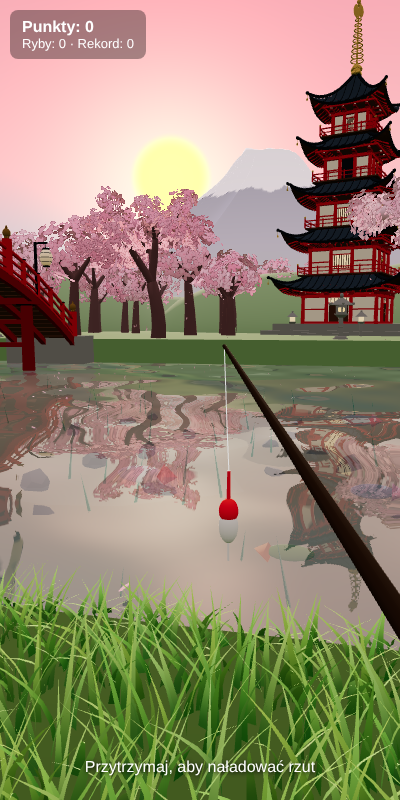
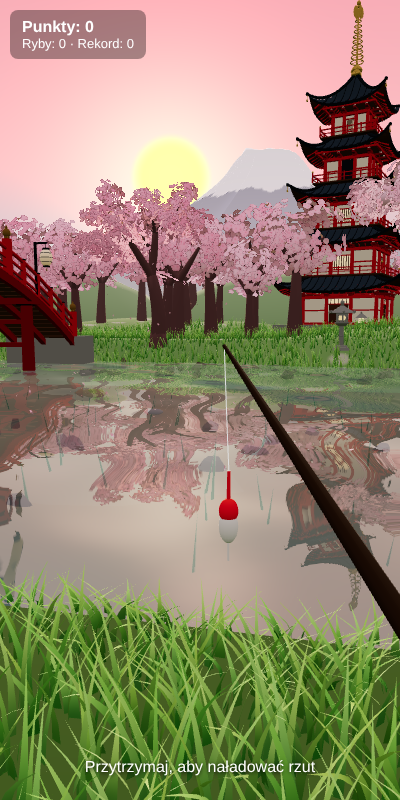
Sakura River 3D: rolling far-bank terrain with wavy shoreline, meadow noise shader, shader grass and stones
Claude-Session: https://claude.ai/code/session_0135N7RBne1EWupuqrvu7N74

diff --git a/fishing-game/3d/index.html b/fishing-game/3d/index.html
@@ -157,8 +157,40 @@ nearBank.position.set(0, -0.4, 24.4); scene.add(nearBank);
 
 const nearGrass = new THREE.Mesh(new THREE.BoxGeometry(200, 0.2, 30), new THREE.MeshStandardMaterial({ color: 0x4f6e32, roughness: 1 }));
 nearGrass.position.set(0, 0.7, 24.4); scene.add(nearGrass);
-const farBank = new THREE.Mesh(new THREE.BoxGeometry(200, 3, 40), grassMat);
-farBank.position.set(0, 0, -42); scene.add(farBank);
+// far bank: meadow with colour variation (noise in the shader), a sloped muddy edge and stones at the waterline
+const meadowMat = new THREE.MeshStandardMaterial({ color: 0x7fa36a, roughness: 1 });
+meadowMat.onBeforeCompile = sh => {
+  sh.vertexShader = 'varying vec3 vWP;\n' + sh.vertexShader.replace('#include <worldpos_vertex>', '#include <worldpos_vertex>\n vWP = (modelMatrix * vec4(transformed, 1.0)).xyz;');
+  sh.fragmentShader = 'varying vec3 vWP;\nfloat h2(vec2 p){ return fract(sin(dot(p, vec2(127.1, 311.7))) * 43758.5453); }\nfloat vn(vec2 p){ vec2 i = floor(p), f = fract(p); f = f*f*(3.0-2.0*f);\n return mix(mix(h2(i), h2(i+vec2(1,0)), f.x), mix(h2(i+vec2(0,1)), h2(i+vec2(1,1)), f.x), f.y); }\n' +
+    sh.fragmentShader.replace('#include <color_fragment>', `#include <color_fragment>
+      float n = vn(vWP.xz * 0.15) * 0.6 + vn(vWP.xz * 0.8) * 0.3 + vn(vWP.xz * 4.0) * 0.1;
+      diffuseColor.rgb *= mix(vec3(0.78, 0.86, 0.7), vec3(1.12, 1.08, 0.92), n);
+      diffuseColor.rgb = mix(diffuseColor.rgb, vec3(0.93, 0.72, 0.78), smoothstep(0.72, 0.9, vn(vWP.xz * 0.5)) * 0.35); // fallen petals`);
+};
+meadowMat.customProgramCacheKey = () => 'meadow';
+// rolling terrain instead of a box: wavy shoreline, a soft slope into the water, gentle hills further back
+const shoreZ = x => -21.5 + Math.sin(x * 0.21) * 0.6 + Math.sin(x * 0.07 + 1) * 1.1 + Math.sin(x * 0.53) * 0.25;
+function farH(x, z) {
+  const d = shoreZ(x) - z;                         // distance inland from the waterline
+  const s = THREE.MathUtils.smoothstep(d, -1, 5);
+  const bumps = (Math.sin(x * 0.13) * Math.sin(z * 0.17) * 0.7 + Math.sin(x * 0.31 + z * 0.23) * 0.3) * THREE.MathUtils.smoothstep(d, 3, 12);
+  return -0.9 + s * 2.4 + bumps + Math.max(0, d - 12) * 0.05;
+}
+{
+  const g = new THREE.PlaneGeometry(200, 70, 260, 90); g.rotateX(-Math.PI / 2); g.translate(0, 0, -52);
+  const pos = g.attributes.position;
+  for (let i = 0; i < pos.count; i++) pos.setY(i, farH(pos.getX(i), pos.getZ(i)));
+  g.computeVertexNormals();
+  scene.add(new THREE.Mesh(g, meadowMat));
+  const rocks = new THREE.InstancedMesh(new THREE.DodecahedronGeometry(0.5, 0), new THREE.MeshStandardMaterial({ color: 0x8a8578, roughness: 0.9, flatShading: true }), 110);
+  for (let i = 0; i < 110; i++) {
+    const x = rnd(-70, 70), z = shoreZ(x) - rnd(-0.3, 1.2);
+    dummy.position.set(x, farH(x, z) + 0.05, z);
+    dummy.rotation.set(rnd(0, 3), rnd(0, 3), rnd(0, 3)); dummy.scale.set(rnd(0.4, 1.2), rnd(0.3, 0.6), rnd(0.4, 1.0)); dummy.updateMatrix();
+    rocks.setMatrixAt(i, dummy.matrix); rocks.setColorAt(i, new THREE.Color().setHSL(0.1, 0.08, rnd(0.35, 0.6)));
+  }
+  scene.add(rocks);
+}
 for (let i = 0; i < 9; i++) {
   const hill = new THREE.Mesh(new THREE.SphereGeometry(14 + i % 3 * 5, 16, 10), new THREE.MeshStandardMaterial({ color: 0x8fae7e }));
   hill.scale.y = 0.45; hill.position.set(-80 + i * 20, 0, -60 - (i % 2) * 10); scene.add(hill);
@@ -305,6 +337,18 @@ for (let i = 0; i < BLADES; i++) {
   grass.setColorAt(i, new THREE.Color().setHSL(0.25 + rnd(-0.03, 0.04), 0.5, rnd(0.45, 0.65)));
 }
 scene.add(grass);
+// grass on the far bank: same shader, taller blades (seen from afar), denser near the water edge
+const FAR_BLADES = 24000;
+const farGrass = new THREE.InstancedMesh(grass.geometry, grassMatShader, FAR_BLADES);
+for (let i = 0; i < FAR_BLADES; i++) {
+  const x = rnd(-70, 70), z = shoreZ(x) - 0.6 - Math.pow(Math.random(), 1.4) * 18;
+  dummy.position.set(x, farH(x, z) - 0.05, z);
+  dummy.rotation.set(rnd(-0.2, 0.2), rnd(0, Math.PI * 2), rnd(-0.2, 0.2));
+  dummy.scale.set(rnd(2, 3), rnd(0.5, 1.0), 1); dummy.updateMatrix();
+  farGrass.setMatrixAt(i, dummy.matrix);
+  farGrass.setColorAt(i, new THREE.Color().setHSL(0.25 + rnd(-0.03, 0.05), 0.45, rnd(0.45, 0.62)));
+}
+scene.add(farGrass);
 function updateGrass(t) { grassUniforms.uTime.value = t; }
 
 // ---------- optional Blender models ----------
@@ -399,7 +443,7 @@ loadParts('models/tree.glb').then(parts => {
       if (kind === 'blossom') radialNormals(part.geo);
       const im = new THREE.InstancedMesh(part.geo, mats[kind], list.length);
       list.forEach((t, k) => {
-        dummy.position.copy(t.position).setY(0.6); dummy.rotation.set(0, (k + v) * 2.3, 0); dummy.scale.setScalar(t.userData.s * 0.95); dummy.updateMatrix();
+        dummy.position.copy(t.position).setY(t.position.z < -15 ? farH(t.position.x, t.position.z) - 0.15 : 0.6); dummy.rotation.set(0, (k + v) * 2.3, 0); dummy.scale.setScalar(t.userData.s * 0.95); dummy.updateMatrix();
         im.setMatrixAt(k, dummy.matrix);
         const c = SAKURA_PINKS[(k + v) % 4];
         if (kind === 'blossom') im.setColorAt(k, col.copy(c).lerp(WHITE, 0.3));
@@ -438,8 +482,8 @@ async function placeModel(url, matrices, over = {}) {
     im.frustumCulled = false; scene.add(im);
   }
 }
-placeModel('models/pagoda.glb', [TRSm(5, FAR_Y - 0.3, -40, -0.3, 1.1)]).catch(e => console.warn('pagoda.glb', e));
-placeModel('models/lantern.glb', [-30, -20, 4, 24, 34].map((x, i) => TRSm(x, FAR_Y - 0.1, FAR_EDGE - 2.2, i * 1.1, 0.92)),
+placeModel('models/pagoda.glb', [TRSm(5, farH(5, -40) - 0.3, -40, -0.3, 1.1)]).catch(e => console.warn('pagoda.glb', e));
+placeModel('models/lantern.glb', [-30, -20, 4, 24, 34].map((x, i) => { const z = shoreZ(x) - 3.2; return TRSm(x, farH(x, z) - 0.1, z, i * 1.1, 0.92); }),
   { glow: new THREE.MeshBasicMaterial({ color: 0xffd28a }) }).catch(e => console.warn('lantern.glb', e));
 // cherry forest on the far bank: the light "Tree_far" variant, many copies, plus full trees in front
 loadParts('models/tree.glb').then(parts => {
@@ -449,14 +493,14 @@ loadParts('models/tree.glb').then(parts => {
   const spots = [];
   let sd = 4242; const fr = () => (sd = sd * 16807 % 2147483647) / 2147483647;
   for (let i = 0; i < 140; i++) {
-    const x = -70 + fr() * 140, z = FAR_EDGE - 6 - fr() * 34;
+    const x = -70 + fr() * 140, z = shoreZ(x) - 5 - fr() * 34;
     if (Math.hypot(x - 5, z + 40) < 10) continue;           // keep the pagoda clear
     spots.push({ x, z, sc: 1.0 + fr() * 0.7, rot: fr() * TAU, c: SAKURA_PINKS[(fr() * 4) | 0] });
   }
   const col = new THREE.Color(), WHITE = new THREE.Color(1, 1, 1);
   for (const [geo, mat, w] of [[bark.geo, treeBarkMat, null], [crown.geo, blossomMat, 0.3]]) {
     const im = new THREE.InstancedMesh(geo, mat, spots.length);
-    spots.forEach((t, k) => { dummy.position.set(t.x, FAR_Y - 0.1, t.z); dummy.rotation.set(0, t.rot, 0); dummy.scale.setScalar(t.sc); dummy.updateMatrix();
+    spots.forEach((t, k) => { dummy.position.set(t.x, farH(t.x, t.z) - 0.15, t.z); dummy.rotation.set(0, t.rot, 0); dummy.scale.setScalar(t.sc); dummy.updateMatrix();
       im.setMatrixAt(k, dummy.matrix); if (w !== null) im.setColorAt(k, col.copy(t.c).lerp(WHITE, w)); });
     im.frustumCulled = false; scene.add(im);
   }
